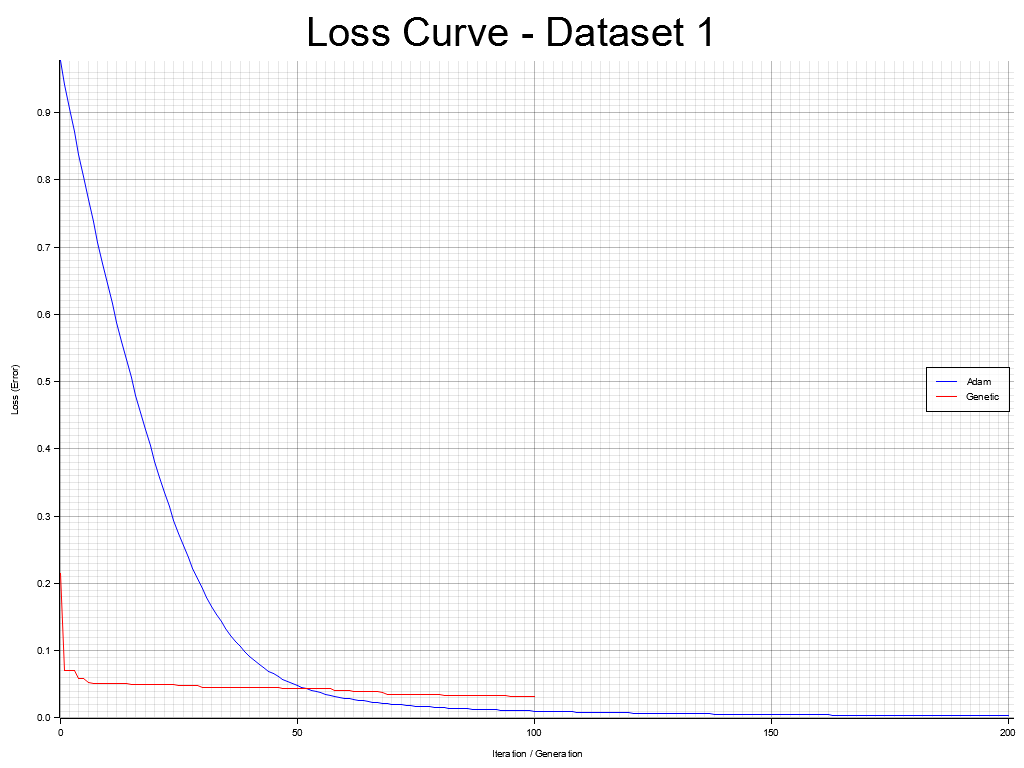
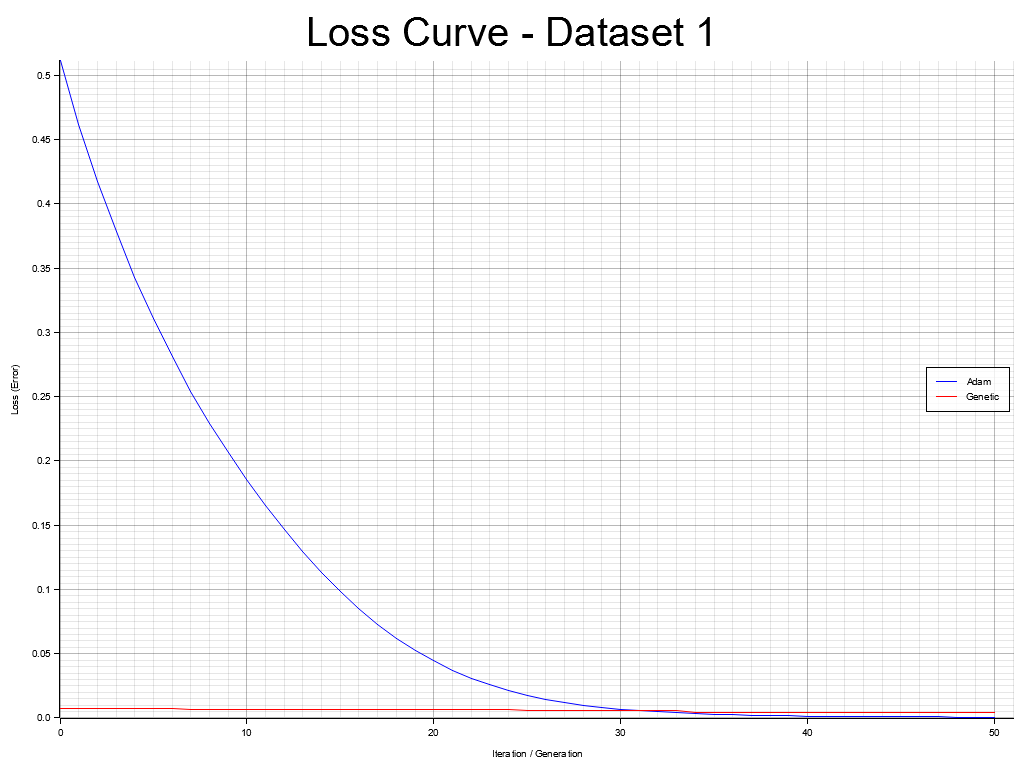
Изменение параметров оптимизаторов для ускорения

Changed region(s): [[0.0312, 0.0938, 1.0, 0.9688]]

diff --git a/src/main.rs b/src/main.rs
@@ -34,16 +34,48 @@ impl History {
     }
 }
 
-fn compare_optimizers(name: &str, dataset: &data_loader::Dataset, hidden_size: usize) -> (f64, f64, Vec<History>) {
+const NUM_RUNS: usize = 1;
+fn run_with_restarts(
+    method_name: &str,
+    make_history: &dyn Fn() -> History,
+    dims: &[usize],
+    dataset: &data_loader::Dataset,
+) -> (f64, History) {
+    let mut best_f1 = -1.0;
+    let mut best_hist: Option<History> = None;
+
+    for run in 0..NUM_RUNS {
+        let hist = make_history();
+        let mut final_nn = NeuralNetwork::new(dims.to_vec());
+        final_nn.set_params(&hist.get_best_x());
+        let test_pred = final_nn.forward(&dataset.test_x);
+        let report = metrics::calculate_f1(&test_pred, &dataset.test_y);
+        println!("    run {}/{}: F1 = {:.4}, loss = {:.4}",
+                 run + 1, NUM_RUNS, report.f1, hist.values.last().unwrap());
+        if report.f1 > best_f1 {
+            best_f1 = report.f1;
+            best_hist = Some(hist);
+        }
+    }
+    println!("    {} лучший F1 = {:.4}", method_name, best_f1);
+    (best_f1, best_hist.unwrap())
+}
+
+fn compare_optimizers(
+    name: &str,
+    dataset: &data_loader::Dataset,
+    hidden1: usize,
+    hidden2: usize,
+) -> (f64, f64, Vec<History>) {
     println!("\n=== Тестирование на {} ===", name);
 
     let num_features = dataset.train_x.ncols();
-    let num_classes = dataset.train_y.ncols();
-    let dims = vec![num_features, hidden_size, hidden_size / 2, num_classes];
+    let num_classes  = dataset.train_y.ncols();
+    let dims = vec![num_features, hidden1, hidden2, num_classes];
+    println!("Архитектура: {:?}", dims);
 
-    let nn = NeuralNetwork::new(dims.clone());
+    let dims_clone = dims.clone();
     let temp_nn = RefCell::new(NeuralNetwork::new(dims.clone()));
-
     let objective = |params: &[f64]| -> f64 {
         let mut nn_ref = temp_nn.borrow_mut();
         nn_ref.set_params(params);
@@ -51,44 +83,36 @@ fn compare_optimizers(name: &str, dataset: &data_loader::Dataset, hidden_size: u
         cross_entropy(&pred, &dataset.train_y)
     };
 
-    println!("Запуск Adam...");
-    let hist_adam = optimizers::adam::adam(
-        &objective,
-        &nn.get_params(),
-        0.01, 0.9, 0.999, 200, 1e-6
+    let (f1_adam, hist_adam) = run_with_restarts(
+        "Adam",
+        &|| {
+            let nn_fresh = NeuralNetwork::new(dims_clone.clone());
+            optimizers::adam::adam(&objective, &nn_fresh.get_params(), 0.01, 0.9, 0.999, 50, 1e-6)
+        },
+        &dims,
+        dataset,
     );
 
-    println!("Запуск Genetic Algorithm...");
-    let num_params = nn.get_params().len();
+    let num_params = NeuralNetwork::new(dims.clone()).get_params().len();
     let domain = vec![(-2.0, 2.0); num_params];
-    let hist_genetic = optimizers::genetic::genetic_algorithm(
-        &objective,
-        &domain,
-        40,
-        100
+    let (f1_genetic, hist_genetic) = run_with_restarts(
+        "Genetic",
+        &|| {
+            optimizers::genetic::genetic_algorithm(&objective, &domain, 30, 50)
+        },
+        &dims,
+        dataset,
     );
 
-    let mut results = Vec::new();
-    let hists = vec![hist_adam, hist_genetic];
-
-    for history in &hists {
-        let mut final_nn = NeuralNetwork::new(dims.clone());
-        final_nn.set_params(&history.get_best_x());
-        let test_pred = final_nn.forward(&dataset.test_x);
-        let report = metrics::calculate_f1(&test_pred, &dataset.test_y);
-        results.push(report.f1);
-        println!("  > {}: F1 = {:.4}, Final Loss = {:.4}", history.method, report.f1, history.values.last().unwrap());
-    }
-
-    (results[0], results[1], hists)
+    (f1_adam, f1_genetic, vec![hist_adam, hist_genetic])
 }
 
 fn main() {
     let d1 = data_loader::load_csv("src/data/dataset1.csv", 2, 2).expect("d1 load error");
     let d2 = data_loader::load_csv("src/data/dataset2.csv", 4, 2).expect("d2 load error");
 
-    let (f1_a1, f1_g1, hists1) = compare_optimizers("Dataset 1 (d1)", &d1, 8);
-    let (f1_a2, f1_g2, hists2) = compare_optimizers("Dataset 2 (d2)", &d2, 12);
+    let (f1_a1, f1_g1, hists1) = compare_optimizers("Dataset 1 (d1)", &d1, 16, 8);
+    let (f1_a2, f1_g2, hists2) = compare_optimizers("Dataset 2 (d2)", &d2, 16, 8);
 
     let hists_ref1: Vec<&History> = hists1.iter().collect();
     let _ = plotters::plot_loss_history(&hists_ref1, "loss_d1.png", "Loss Curve - Dataset 1");
@@ -96,15 +120,16 @@ fn main() {
     let hists_ref2: Vec<&History> = hists2.iter().collect();
     let _ = plotters::plot_loss_history(&hists_ref2, "loss_d2.png", "Loss Curve - Dataset 2");
 
+    let best_f1_d1 = f1_a1.max(f1_g1);
+    let best_f1_d2 = f1_a2.max(f1_g2);
+
     /*let d3 = data_loader::load_csv("src/data/dataset3.csv", 2, 2).expect("d3 load error");
-    let (f1_a3, f1_g3, hists3) = compare_optimizers("Dataset 3 (d3)", &d3, 16);
+    let (f1_a3, f1_g3, hists3) = compare_optimizers("Dataset 3 (d3)", &d3, 16, 8);
     let hists_ref3: Vec<&History> = hists3.iter().collect();
     let _ = plotters::plot_loss_history(&hists_ref3, "loss_d3.png", "Loss Curve - Dataset 3");
      let best_f1_d3 = f1_a3.max(f1_g3);*/
 
-    let best_f1_d1 = f1_a1.max(f1_g1);
-    let best_f1_d2 = f1_a2.max(f1_g2);
     let current_score = 0.3 * best_f1_d1 + 0.3 * best_f1_d2;
 
-    println!("\nТекущий скор: {:.4}", current_score);
+    println!("Текущий скор: {:.4}", current_score);
 }

diff --git a/src/Отчет.md b/src/Отчет.md
@@ -43,10 +43,10 @@ Score = 0.3 × F1(d1) + 0.3 × F1(d2) + 0.4 × F1(d3)
 Вход (n_features) → Скрытый слой (ReLU) → Выход (Softmax)
 ```
 
-| Датасет | Вход | Скрытый слой 1  | Скрытый слой 2 | Выход |
-|---------|------|-----------------|----------------|------|
-| d1      | 2 | **8** нейронов  | 4              | 2    |
-| d2      | 4 | **12** нейронов | 6              | 2    |
+| Датасет | Вход | Скрытый слой 1 | Скрытый слой 2 | Выход |
+|---------|------|----------------|----------------|------|
+| d1      | 2 | 16             | 8              | 2    |
+| d2      | 4 | 16             | 8              | 2    |
 
 ### Инициализация весов
 
@@ -104,23 +104,23 @@ A = activation(Z)
 
 | Параметр | Значение | Описание |
 |----------|----------|----------|
-| `lr` | 0.01 | Скорость обучения |
-| `β₁` | 0.9 | Момент первого порядка |
-| `β₂` | 0.999 | Момент второго порядка |
-| `max_iter` | 200 | Максимум итераций |
-| `tol` | 1e-6 | Критерий сходимости (норма градиента) |
+| `lr` | 0.01     | Скорость обучения |
+| `β₁` | 0.9      | Момент первого порядка |
+| `β₂` | 0.999    | Момент второго порядка |
+| `max_iter` | 50       | Максимум итераций |
+| `tol` | 1e-6     | Критерий сходимости (норма градиента) |
 
 ### Генетический алгоритм
 
 `optimizers/genetic.rs`  
 **Гиперпараметры:**
 
-| Параметр | Значение | Описание |
-|----------|----------|----------|
-| `pop_size` | 40 | Размер популяции |
-| `generations` | 100 | Число поколений |
-| Домен | `[−2, 2]` | Область поиска каждого параметра |
-| Вероятность мутации | 0.1 | Доля особей с мутацией |
+| Параметр | Значение       | Описание |
+|----------|----------------|----------|
+| `pop_size` | 30             | Размер популяции |
+| `generations` | 50             | Число поколений |
+| Домен | `[−2, 2]`      | Область поиска каждого параметра |
+| Вероятность мутации | 0.1            | Доля особей с мутацией |
 | Сдвиг мутации | `U(−0.1, 0.1)` | Величина изменения гена |
 
 
@@ -150,13 +150,13 @@ Macro-F1 = (1/K) × Σ F1_c
 
 | Оптимизатор | F1 (test) | Финальный Loss |
 |-------------|-----------|----------------|
-| Adam        | **1.0000** | 0.0020 |
-| Genetic     | 0.9833    | 0.0722 |
+| Adam        | **1.0000** | 0.0007         |
+| Genetic     | 0.9833    | 0.0044         |
 
 ### Dataset 2 
 4 признака, скрытый слой 12 нейронов
 
 | Оптимизатор | F1 (test) | Финальный Loss |
 |-------------|-----------|----------------|
-| Adam        | **1.0000** | 0.0004 |
-| Genetic     | **1.0000** | 0.0001 |
+| Adam        | **1.0000** | 0.0001         |
+| Genetic     | **1.0000** | 0.0005         |
